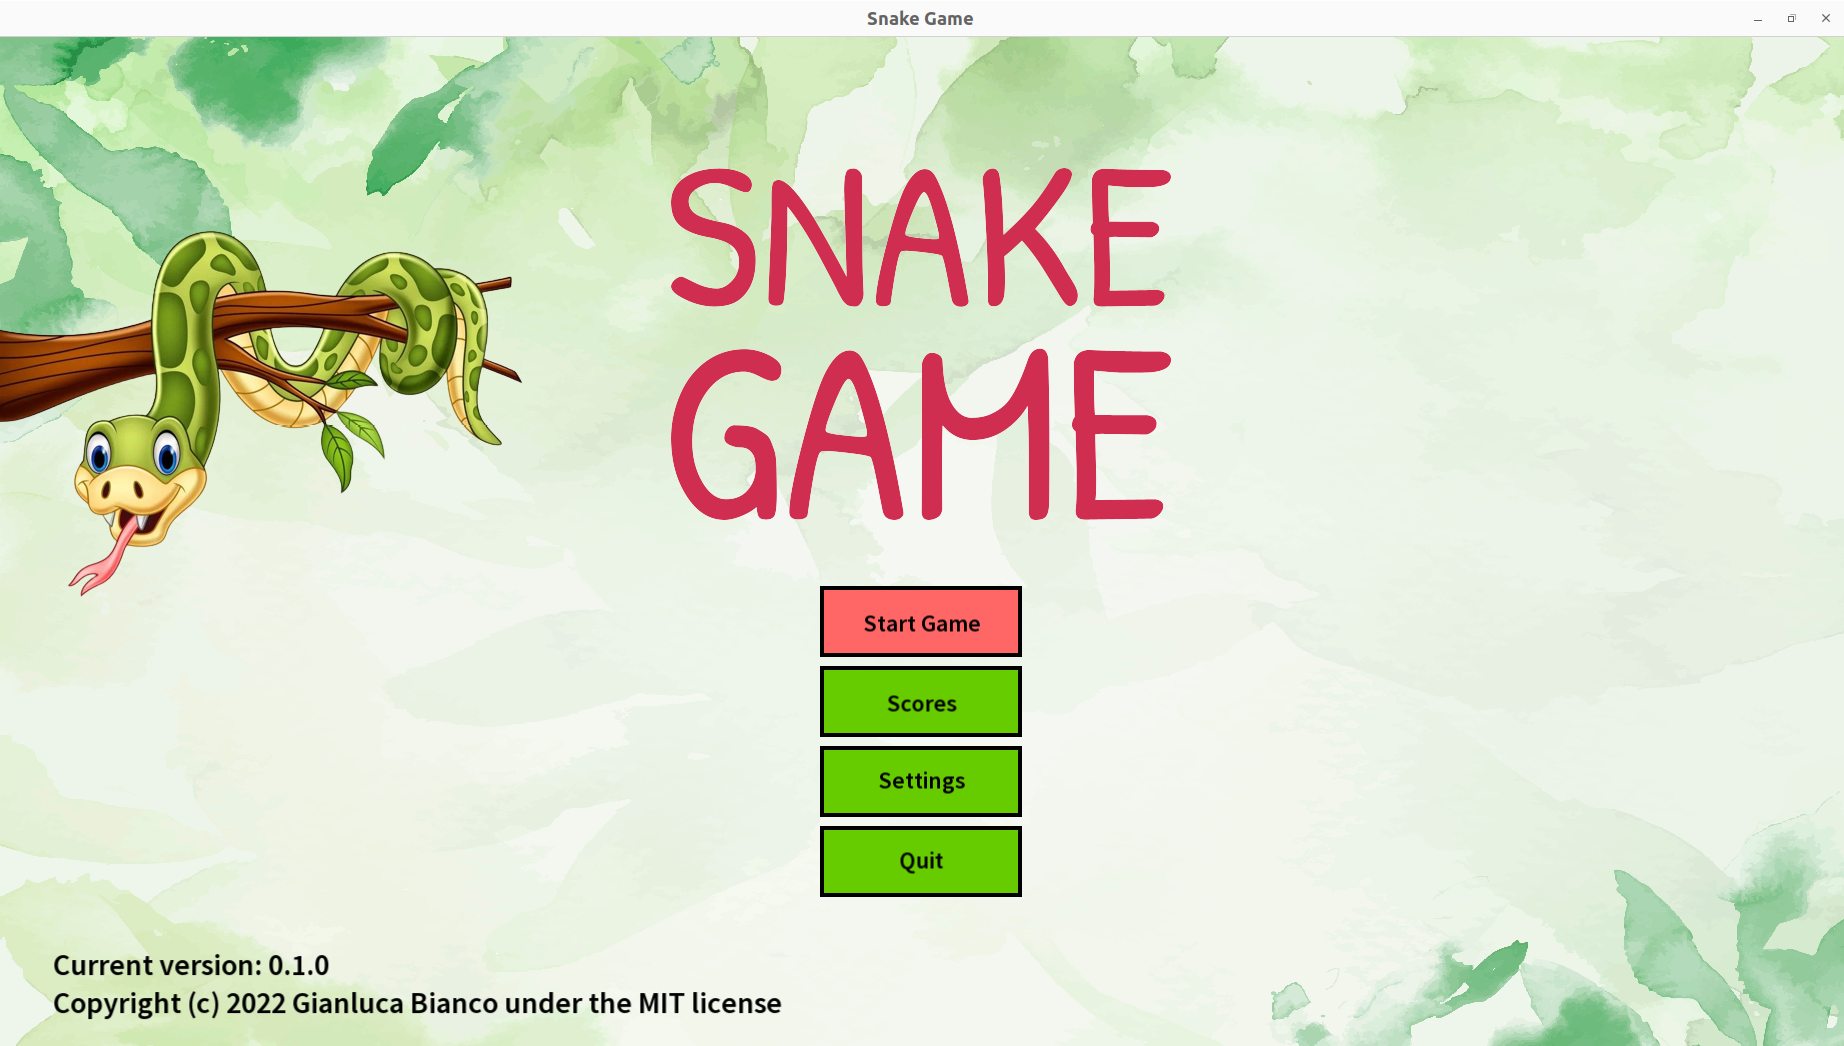
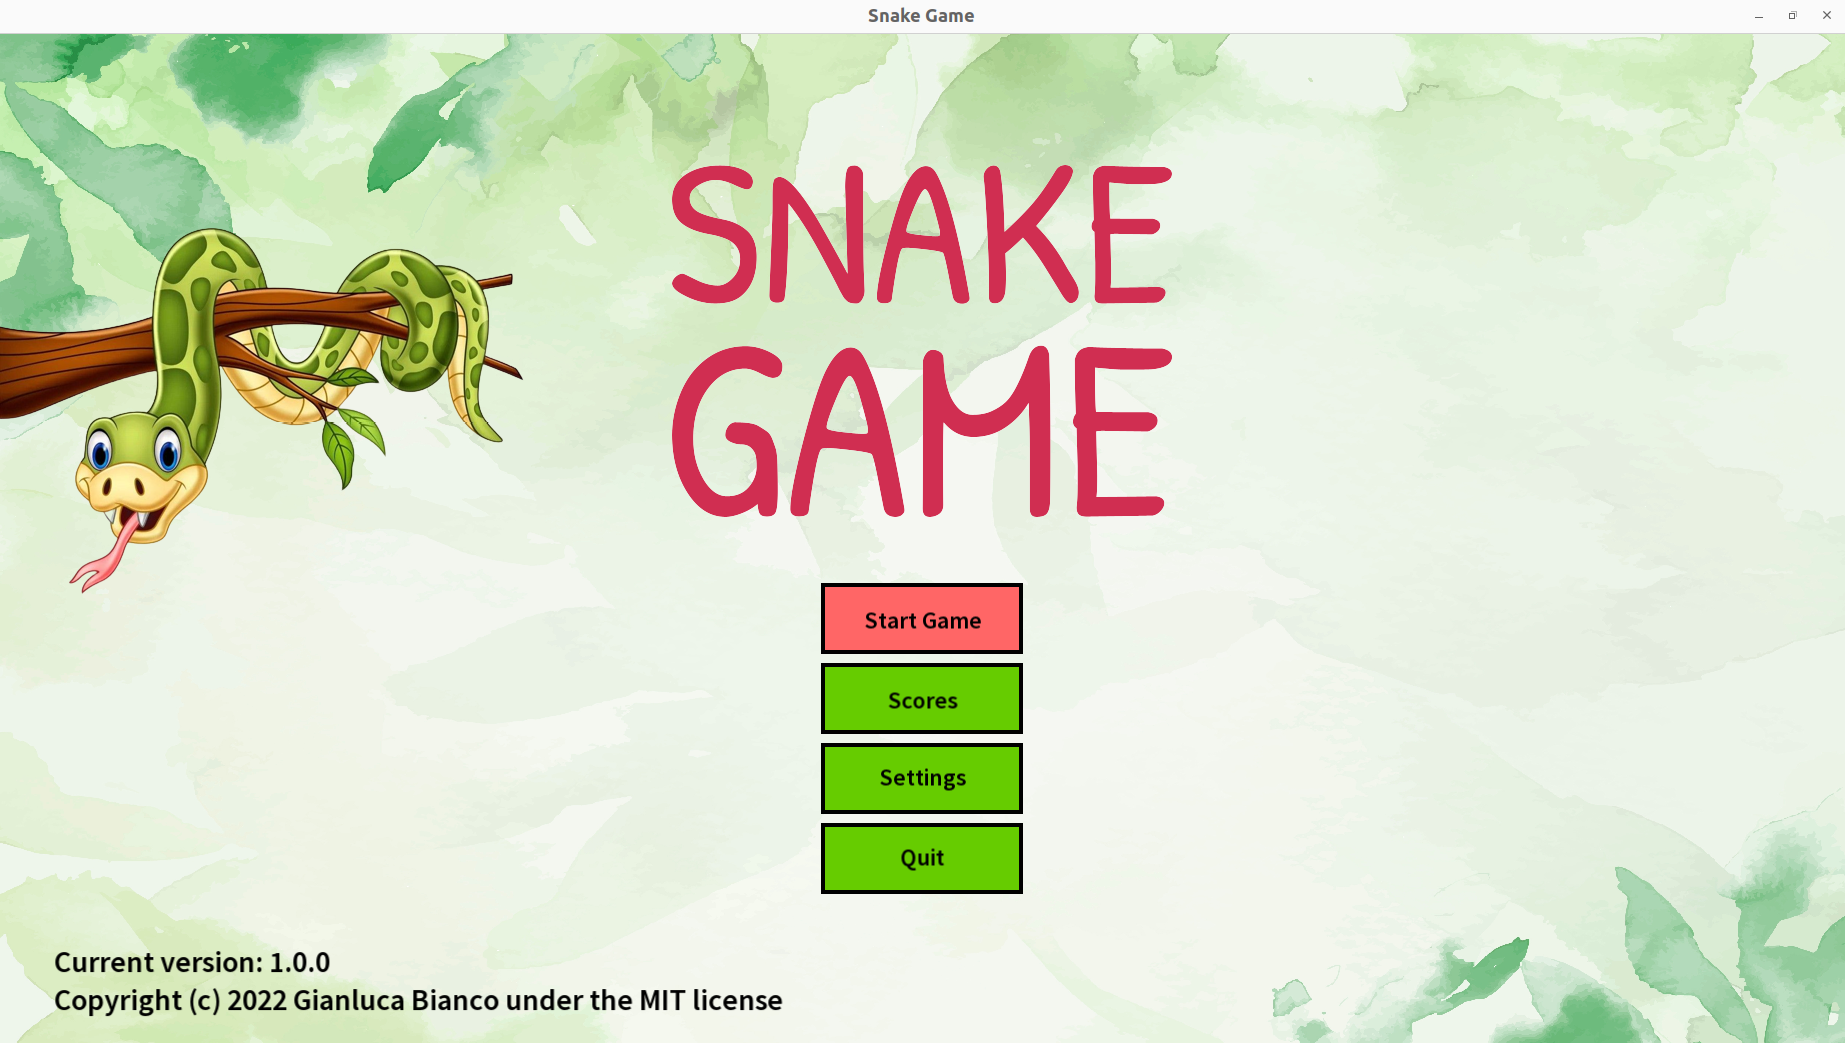
Doc update and added missing macos header.

diff --git a/src/widgets/button.cpp b/src/widgets/button.cpp
@@ -113,6 +113,11 @@ namespace snake::widget{
         else if( this -> focus == true ){
             this -> widgetState = WDGT_HOVER;
 
+            if( this -> switch_sound_already_played == false ){
+                this -> button_switch_sound.play();
+                this -> switch_sound_already_played = true;
+            }
+
             if( sf::Keyboard::isKeyPressed( sf::Keyboard::Return ) ){
                 this -> widgetState = WDGT_ACTIVE;
             }
@@ -126,11 +131,6 @@ namespace snake::widget{
 
             case WDGT_HOVER:
                 this -> shape.setFillColor( this -> hoverColor );
-
-                if( this -> switch_sound_already_played == false ){
-                    this -> button_switch_sound.play();
-                    this -> switch_sound_already_played = true;
-                }
                 break;
 
             case WDGT_ACTIVE:

diff --git a/src/states/menu_state.cpp b/src/states/menu_state.cpp
@@ -327,7 +327,7 @@ namespace snake::state{
 
         // Version number text
         this -> metadata.setFont( this -> font );
-        this -> metadata.setString( "Current version: 0.2.0\nCopyright (c) 2022 Gianluca Bianco under the MIT license" );
+        this -> metadata.setString( "Current version: 1.0.0\nCopyright (c) 2022 Gianluca Bianco under the MIT license" );
 
         // Draw stuff
         this -> game_button -> pack( this -> game_window );

diff --git a/include/windows/game_window.hpp b/include/windows/game_window.hpp
@@ -27,6 +27,7 @@
 #include <SFML/Audio/Sound.hpp>
 
 // STD
+#include <sstream> // Required for MacOS
 #include <filesystem>
 #include <cstdlib>
 #include <string>

diff --git a/README.md b/README.md
@@ -2,7 +2,7 @@
 
 <h3 align="center">A snake game with scores, options, audio and more created using SFML. </h3>
 <p align="center">
-  <img title="v0.2" alt="v0.2" src="https://img.shields.io/badge/version-v0.2-informational?style=flat-square">
+  <img title="v1.0" alt="v1.0" src="https://img.shields.io/badge/version-v1.0-informational?style=flat-square">
   <img title="MIT License" alt="license" src="https://img.shields.io/badge/license-MIT-informational?style=flat-square">
 	<img title="C++20" alt="C++20" src="https://img.shields.io/badge/c++-20-informational?style=flat-square"><br/>
 	<img title="Code size" alt="code size" src="https://img.shields.io/github/languages/code-size/JustWhit3/snake-game?color=red">
@@ -30,14 +30,13 @@
   - [Game](#game)
   - [Options](#options)
   - [Scores](#scores)
-- [Todo](#todo)
 - [Credits](#credits)
   - [Project leaders](#project-leaders)
 - [Stargazers over time](#stargazers-over-time)
 
 ## Introduction
 
-In this repository a C++20 implementation of the popular snake game, using the [SFML](https://www.sfml-dev.org/) graphics library is provided.
+In this repository a C++20 implementation of the popular snake game, using the [SFML](https://www.sfml-dev.org/) graphics library is provided. Audio effects are enabled and a few customizable options and scores are available.
 
 During the gameplay some game files will be created in your home directory under the **snake-game_files** folder. These are files which will save game scores and options.
 
@@ -158,12 +157,9 @@ Commands:
 
 ### Scores
 
-Work in progress...
+<img src="https://github.com/JustWhit3/snake-game/blob/main/img/examples/scores.png">
 
-## Todo
-
-- Add Score state.
-- Add sounds and music.
+Only the three best scores, withing the respective player name, will be displayed here.
 
 ## Credits
 
